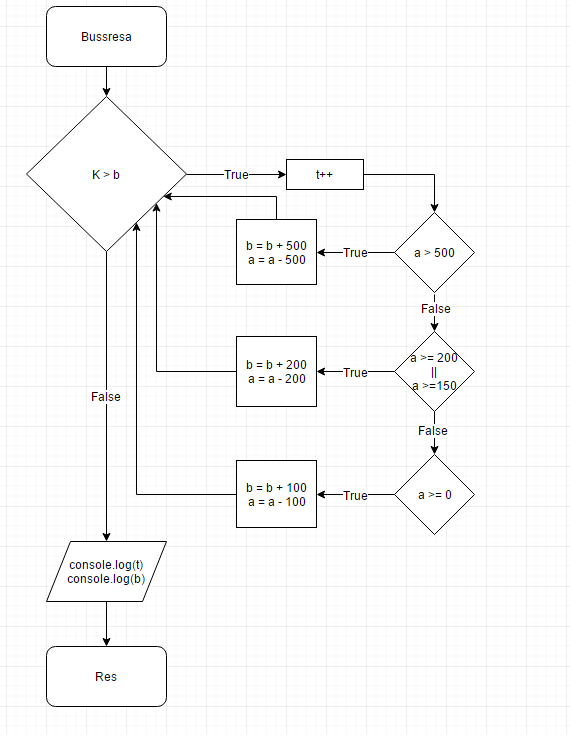
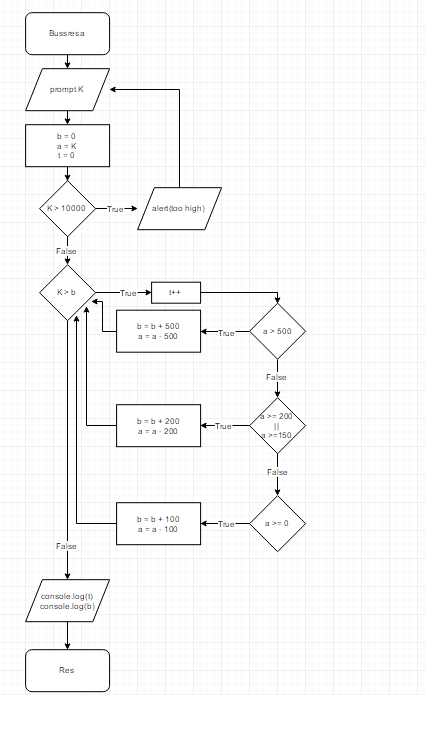
modified the files with a condition

diff --git a/annelie_viklund/annelie_viklund_busfare.js b/annelie_viklund/annelie_viklund_busfare.js
@@ -1,7 +1,11 @@
 function busfare(K){
-	var t = 0;//varibael som sparar antalet loopar
-	var b = 0;
+	var t = 0;//variabel som sparar antalet loopar
+	var b = 0;//busskortets startvärde
 	var a = K; // variabel med startvärde K men som kan minskas för varje loopning
+	if(K > 10000){
+			alert("För högt pris. Välj en billigare biljett");
+			K = prompt("Hur mycket kostar biljetten?");
+		}
 	while (K > b){
 		t++;
 		if (a > 500 ){ //kontrollerar först om vi kan sätta in 500 utan att slösa mer än 50
@@ -24,5 +28,5 @@ if (b !== 0){
 	}
 }
 
-var K = busfare(850);
-var K = busfare(1800);
+var K = prompt("Hur mycket kostar biljetten?");
+busfare(K);

diff --git a/annelie_viklund/annelie_viklund_busfare.md b/annelie_viklund/annelie_viklund_busfare.md
@@ -3,13 +3,17 @@ ___
 
 Biljettpriset `K` är **max** 10000  
 Möjliga transaktioner är 500, 200, 100. Gör så **få** transaktioner som möjligt.  
-Spara antal transaktioner (*så många gånger som loopen körs*) i en variabel `t`
+Spara antal transaktioner (*så många gånger som loopen körs*) i en variabel `t`  
+Fråga användaren hur mycket biljetten `K` kostar
 
-Gör en `funktion` som kontrollerar om busskortets värde `b` innehåller mängden pengar som biljettpriset `K` kräver, annars sätt in pengar  
-I `funktionen`, skapa en `loop`  
+Gör en `funktion` som kontrollerar om busskortets värde `b` innehåller mängden pengar som biljettpriset `K` kräver, annars sätt in pengar   
 Skapa en variabel `a` som har samma startvärde som `K`  
-Så länge `K` är större än `b`   
 `t` ökas med 1 
+  *  **Om** `K` > 10000
+     * Alert: För stort belopp
+     * Fråga användaren igen om nytt biljettpris  
+
+I `funktionen`, skapa en `loop` som körs så länge `K` är större än `b`  
   * **Om** `a` är större än 500  
     * sätt in 500 i `b`  
     *  `a` minskas med 500  
@@ -29,4 +33,3 @@ Res och använd pengarna
 Ny biljett, nya transaktioner, *loopa* igen
 
 ![buss pic](http://salenfjallen.se/wp-content/uploads/2014/12/bus.jpg)
-
